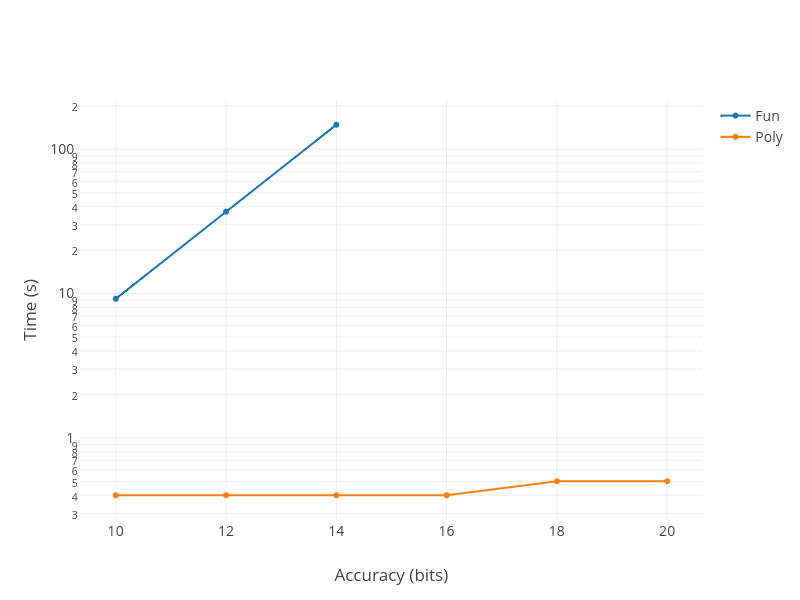
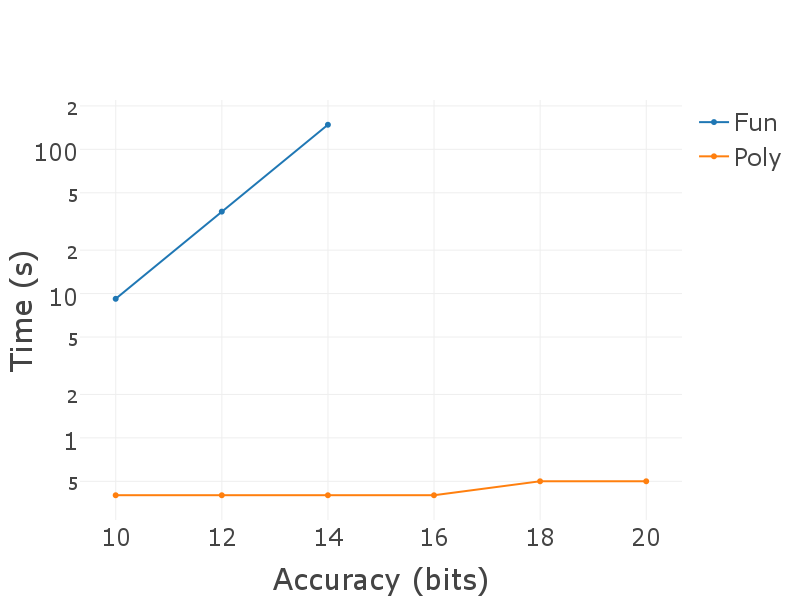
fnreps: Fixed formula for planned benchmark function Enlarged font in plots in README.

diff --git a/aern2-fnreps/README.md b/aern2-fnreps/README.md
@@ -97,9 +97,9 @@ _([on Plotly](https://plot.ly/~mikkonecny/11/time-s-vs-accuracy-bits/))_
 #### Maximum over ![unit-interval](http://latex.codecogs.com/gif.latex?[-1,1])
 
 
-### An analytic function with singularities near the origin and multiple maxima
+### An analytic function with singularities near the origin and with multiple maxima
 
-![fraction-sine](http://latex.codecogs.com/gif.latex?{\\frac{1}{100x^2+1}})
+![fraction-sine](http://latex.codecogs.com/gif.latex?{\\frac{1}{10(\\sin 7x)^2+1}})
 
 ### A very simple non-smooth function
 
